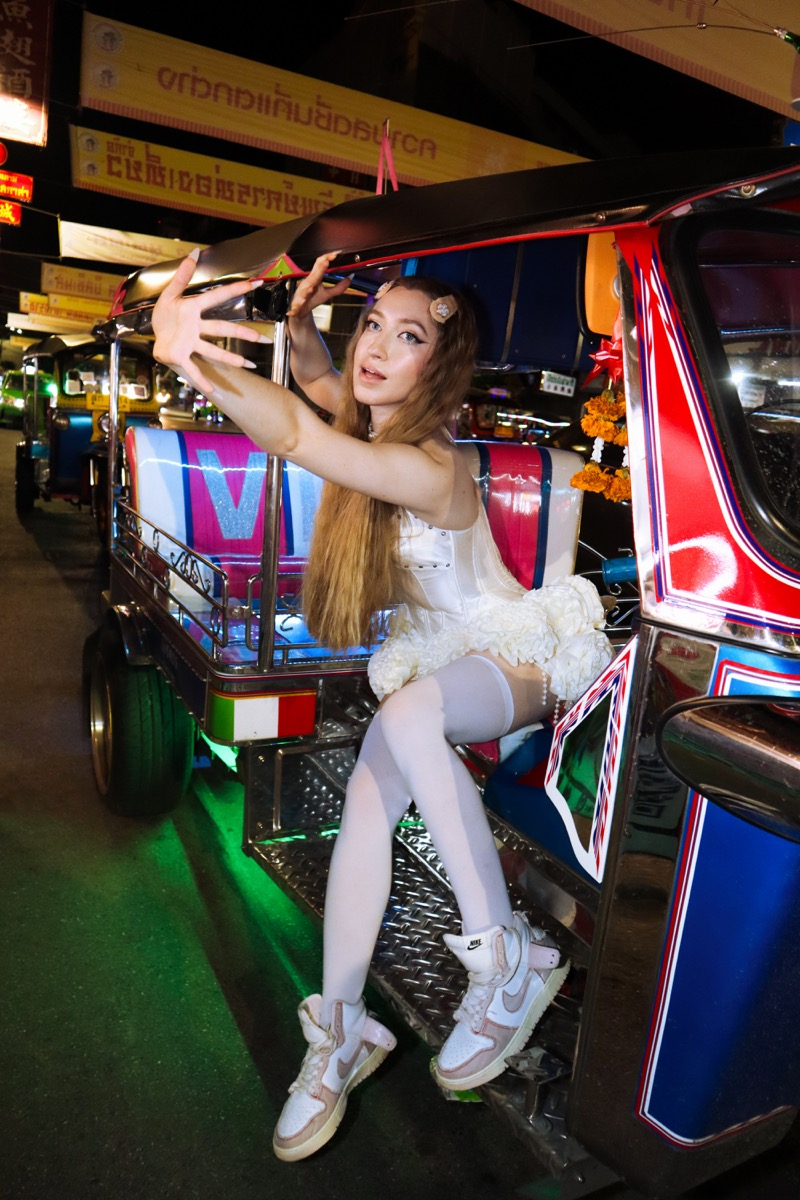
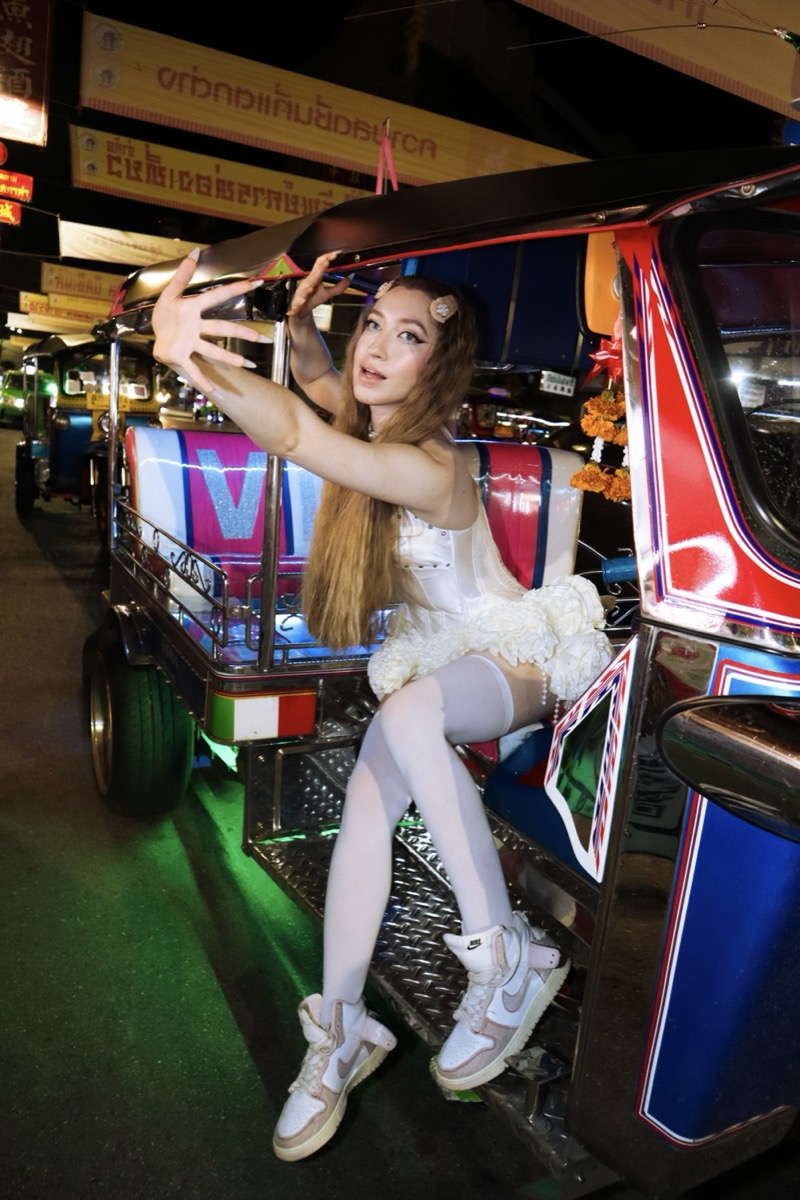
Gallery: single row of 3 photos (tuk-tuk, laundry, china town)

diff --git a/index.html b/index.html
@@ -157,9 +157,6 @@
           <a class="photo" href="photos/1.jpg" target="_blank" rel="noopener"><img src="photos/1.jpg" alt="" loading="lazy" onerror="this.remove()" /></a>
           <a class="photo" href="photos/2.jpg" target="_blank" rel="noopener"><img src="photos/2.jpg" alt="" loading="lazy" onerror="this.remove()" /></a>
           <a class="photo" href="photos/3.jpg" target="_blank" rel="noopener"><img src="photos/3.jpg" alt="" loading="lazy" onerror="this.remove()" /></a>
-          <a class="photo" href="photos/4.jpg" target="_blank" rel="noopener"><img src="photos/4.jpg" alt="" loading="lazy" onerror="this.remove()" /></a>
-          <a class="photo" href="photos/5.jpg" target="_blank" rel="noopener"><img src="photos/5.jpg" alt="" loading="lazy" onerror="this.remove()" /></a>
-          <a class="photo" href="photos/6.jpg" target="_blank" rel="noopener"><img src="photos/6.jpg" alt="" loading="lazy" onerror="this.remove()" /></a>
         </section>
       </section>
     </main>
